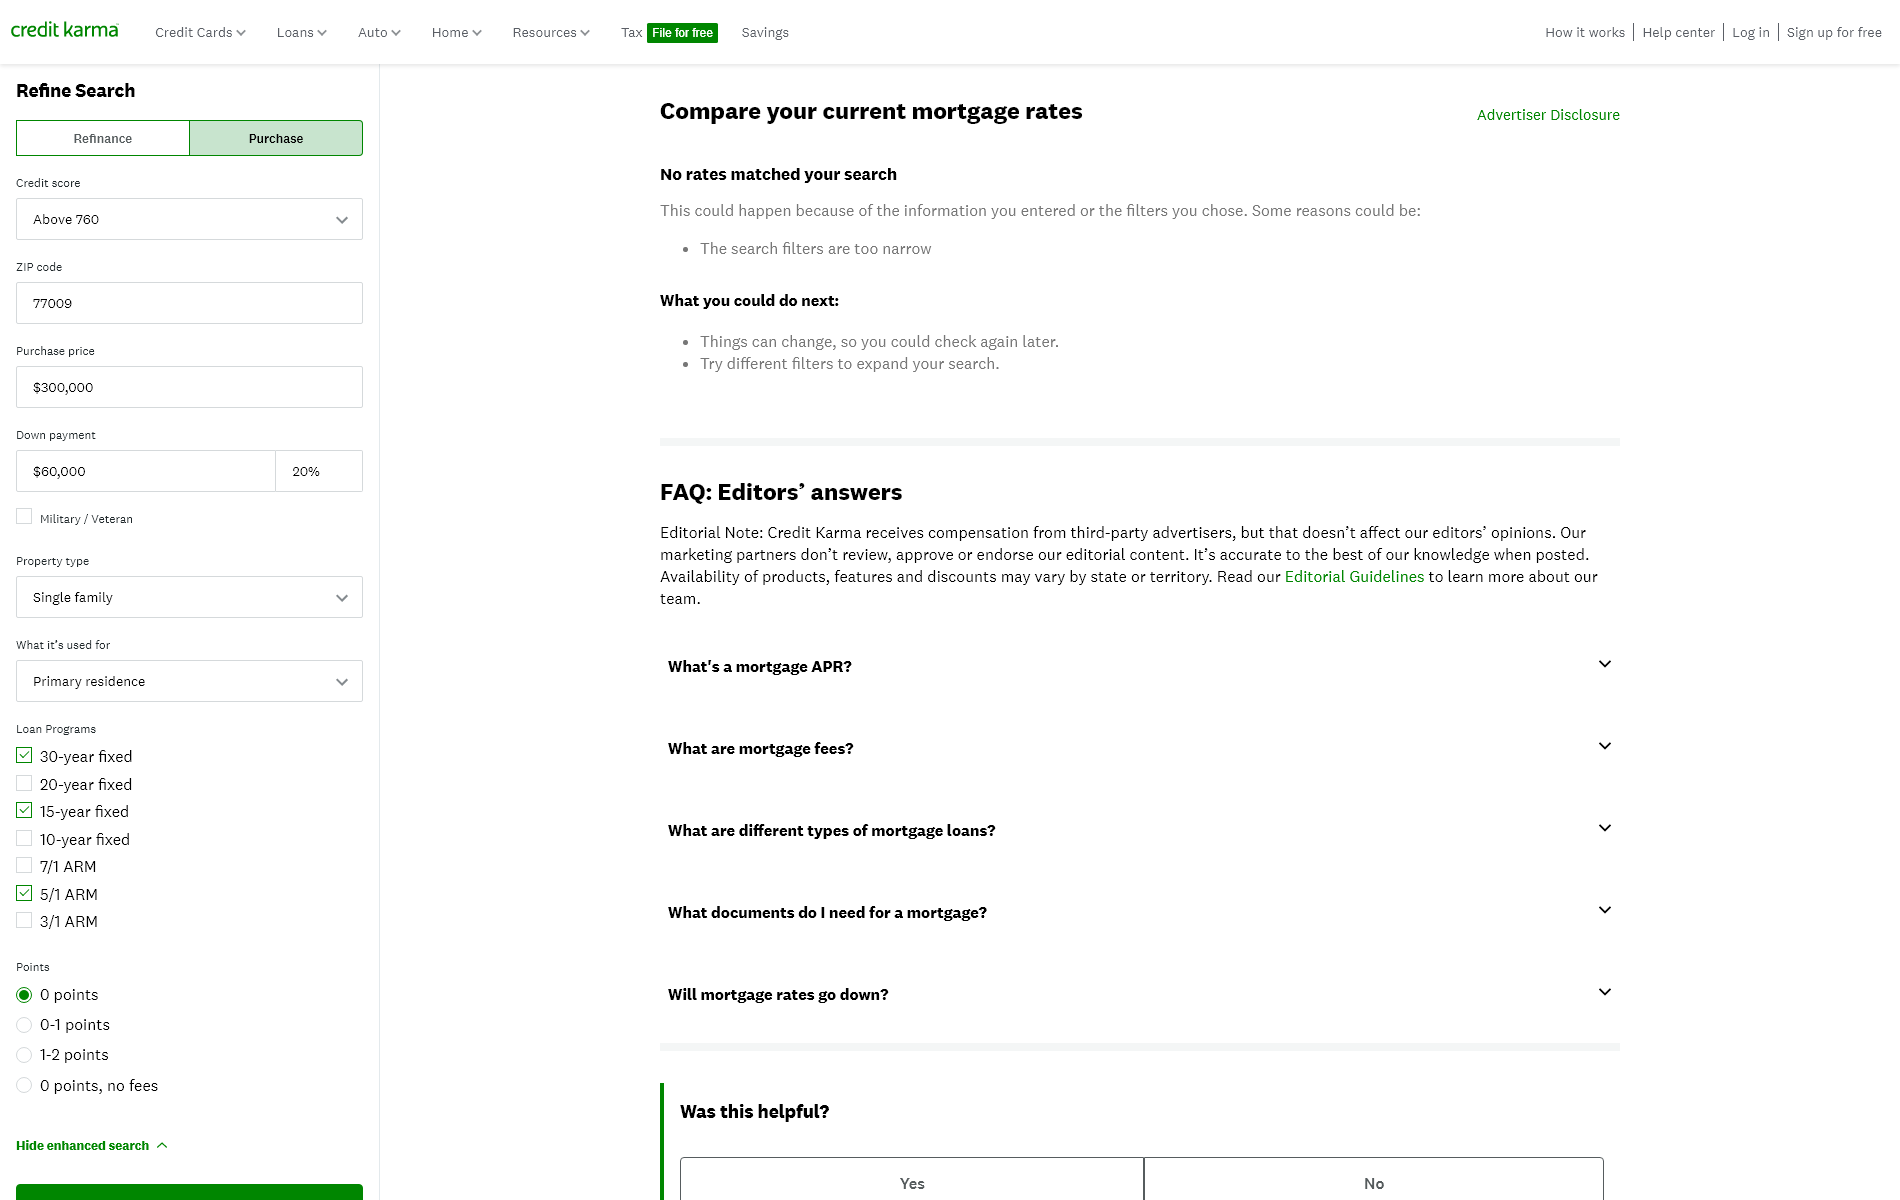
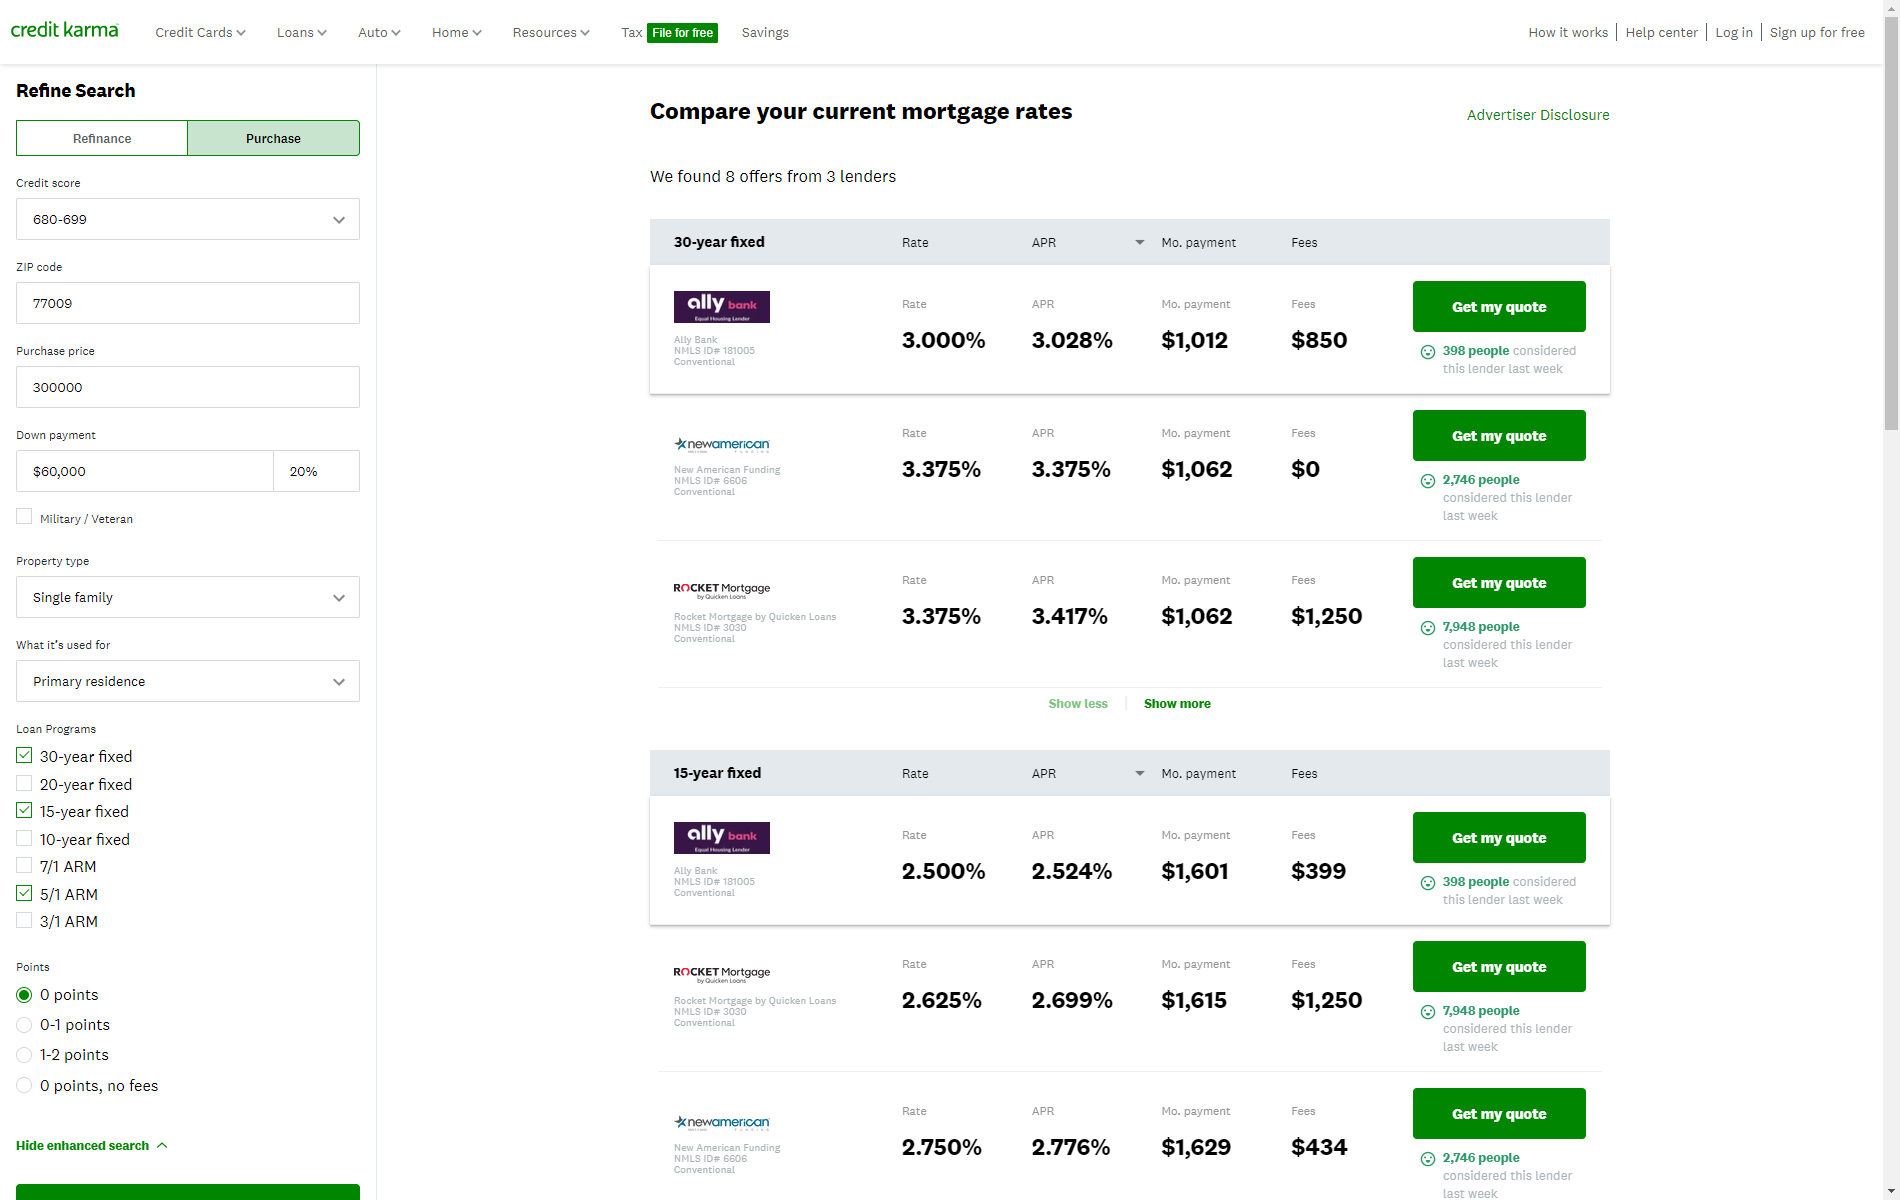
bugfix: selection input now works, added waits, correctly gets results for rate,apr,mo.payment,fees

diff --git a/credKarma.js b/credKarma.js
@@ -5,7 +5,7 @@ const PROPERTY_VALUE_MAX = 200000;
 const PROPERTY_VALUE_INC = 100000;
 let credit_scores = ["760","740","720","700","680","660","640",]
 let purchase_prices = []
-for(let i = 1; i<11; i++){
+for(let i = 3; i<11; i++){
   purchase_prices.push(i*100000)
 }
 let property_types = ["Single family","Multi-family", "Condo", "Townhome","Co-op","Manufactured home"] // index corresponds to value in dropdown on creditkarma
@@ -20,6 +20,7 @@ for(let cs of credit_scores){ // This loops will create all the permutations we 
     }
   }
 }
+// console.log(inputs)
 
 const state_values = [
   ["AK", "Alaska"],
@@ -77,27 +78,31 @@ const state_values = [
 let dummy_rows = [];
 
 let popupHandler = async (page) => {
+  try{
     await page.waitForSelector(
-        "#__render-farm > div > div > div > div.ck-modal-root.flex.justify-center.overflow-y-auto.items-center.ck-modal-enter-done > div.ck-modal-body.z-1.bg-white.w-100.pa2.pa4-ns.overflow-y-auto.relative.absolute--fill > div > div:nth-child(2) > button"
-      )
-        let got_it_button2 = await page.$(
-        "#__render-farm > div > div > div > div.ck-modal-root.flex.justify-center.overflow-y-auto.items-center.ck-modal-enter-done > div.ck-modal-body.z-1.bg-white.w-100.pa2.pa4-ns.overflow-y-auto.relative.absolute--fill > div > div:nth-child(2) > button"
-      )
+      "#__render-farm > div > div > div > div.ck-modal-root.flex.justify-center.overflow-y-auto.items-center.ck-modal-enter-done > div.ck-modal-body.z-1.bg-white.w-100.pa2.pa4-ns.overflow-y-auto.relative.absolute--fill > div > div:nth-child(2) > button"
+    )
+      let got_it_button2 = await page.$(
+      "#__render-farm > div > div > div > div.ck-modal-root.flex.justify-center.overflow-y-auto.items-center.ck-modal-enter-done > div.ck-modal-body.z-1.bg-white.w-100.pa2.pa4-ns.overflow-y-auto.relative.absolute--fill > div > div:nth-child(2) > button"
+    )
 
-      let got_it_button2_connected = await page.evaluate((el) => el.isConnected, got_it_button2);
-      
-      
-      if(got_it_button2_connected){
-        await page.click("#__render-farm > div > div > div > div.ck-modal-root.flex.justify-center.overflow-y-auto.items-center.ck-modal-enter-done > div.ck-modal-body.z-1.bg-white.w-100.pa2.pa4-ns.overflow-y-auto.relative.absolute--fill > div > div:nth-child(2) > button")
-        console.log("Should appear if there is a button for git it")
-      }
+    let got_it_button2_connected = await page.evaluate((el) => el.isConnected, got_it_button2);
+    
+    
+    if(got_it_button2_connected){
+      await page.click("#__render-farm > div > div > div > div.ck-modal-root.flex.justify-center.overflow-y-auto.items-center.ck-modal-enter-done > div.ck-modal-body.z-1.bg-white.w-100.pa2.pa4-ns.overflow-y-auto.relative.absolute--fill > div > div:nth-child(2) > button")
+      console.log("Should appear if there is a button for git it")
+    }
+
+  } catch(error){console.log(error)}
+   
 }
 
 startScript = async () => {
 
   
   try {
-    const browser = await puppeteer.launch();
+    const browser = await puppeteer.launch({headless: false});
     let url = `https://www.creditkarma.com/home-loans/mortgage-rates`;
     const page = await browser.newPage();
     await page.goto(url);
@@ -116,13 +121,15 @@ startScript = async () => {
       await page.addStyleTag({ content: "*{scroll-behavior: auto !important;}" })
 
       // click enchance search immediately so we can add more fields
-      await page.waitFor(3000);
+      await page.waitFor(1000);
       await page.screenshot({
         path: "./screenshots/beforeEnhance.png",
       })
       await page.focus("#mortgage-show-cash-out-btn")
       await page.waitForSelector("#mortgage-show-cash-out-btn")
+      await page.waitFor(1000);
       await page.click("#mortgage-show-cash-out-btn");
+      await page.waitFor(1000);
 
       // This block of code changes the credit score selection
 
@@ -130,23 +137,23 @@ startScript = async () => {
       await page.waitForSelector(
         "#__render-farm > div > div > div > aside > div > form > section > div.pt3-l.pt4.ph3.pb2.flex-shrink-0 > div:nth-child(3) > label > div.galaxy-forms-dropdown-root > select"
       );
+      await page.waitFor(1000);
 
       console.log("what is new credit SCore", credit_score)
-      await page.$eval(
-        "#__render-farm > div > div > div > aside > div > form > section > div.pt3-l.pt4.ph3.pb2.flex-shrink-0 > div:nth-child(3) > label > div.galaxy-forms-dropdown-root > select",
-        (el,my_value) => el.value = my_value,credit_score
-      );
+
+      await page.select('#__render-farm > div > div > div > aside > div > form > section > div.pt3-l.pt4.ph3.pb2.flex-shrink-0 > div:nth-child(3) > label > div.galaxy-forms-dropdown-root > select', 'my-value', "680")
+     
+    
       // end of block that changes credit score selection
-      await page.waitFor(3000);
-      await page.screenshot({
-        path: "./screenshots/afterPop.png",
-      })
+      await page.waitFor(1000);
+      
       // This block of code gets and sets the purchase price to an updated value
       console.log("what is new purchase price", purchase_price)
       await page.$eval(
         "input[data-testid=search-form-purchasePrice-input]",
         (el,new_val) => (el.value = new_val),purchase_price
       );
+      
 
     //   let updated_prop_val_element = await page.$("input[class=propertyvalue]");
 
@@ -172,18 +179,18 @@ startScript = async () => {
       let is_30_checked = true
 
       // can set these other parameters or loop through certain options later
-      await page.$eval(
-        "input[data-testid=search-form-loanPrograms-input-30-year-fixed]",
-        (el,is_checked) => (el.checked = is_checked),is_30_checked
-      );
+      // await page.$eval(
+      //   "input[data-testid=search-form-loanPrograms-input-30-year-fixed]",
+      //   (el,is_checked) => (el.checked = is_checked),is_30_checked
+      // );
     //   await page.$eval(
     //     "input[data-testid=search-form-loanPrograms-input-20-year-fixed]",
     //     (el,is_checked) => (el.checked = is_checked),!is_30_checked
     //   );
-      await page.$eval(
-        "input[data-testid=search-form-loanPrograms-input-15-year-fixed]",
-        (el,is_checked) => (el.checked = is_checked),is_30_checked
-      );
+      // await page.$eval(
+      //   "input[data-testid=search-form-loanPrograms-input-15-year-fixed]",
+      //   (el,is_checked) => (el.checked = is_checked),is_30_checked
+      // );
     //   await page.$eval(
     //     "input[data-testid=search-form-loanPrograms-input-10-year-fixed]",
     //     (el,is_checked) => (el.checked = is_checked),!is_30_checked
@@ -204,21 +211,37 @@ startScript = async () => {
       //end of setting loan programs
 
       // click get my rates
-      await page.click("#mortgage-check-rates-btn")
 
-      const getThemAll = await page.$$("ckm_detail-module_detailValue--21DrW b");
-      console.log("gta", getThemAll);
+      await page.screenshot({
+        path: "./screenshots/afterPop.png",
+      })
+
+      await page.waitForSelector("#mortgage-check-rates-btn")
+      
+
+      await page.waitFor(5000)
+      await page.click("#mortgage-check-rates-btn")
+      await page.waitFor(5000)
+      await page.screenshot({
+        path: "./screenshots/newRates.png",
+      })
+      await page.waitFor(10000)
+
+      const getThemAll = await page.$$('span[class^="ckm_detail-module_detail"]');
+      console.log("gta", getThemAll)
 
       getThemAll.forEach(async (rate) => {
-        rate = await page.evaluate((el) => el.textContent, rate);
-        console.log("rate is", rate);
-      });
+        rate = await page.evaluate((el) => el.textContent, rate)
+        console.log("rate is", rate)
+      })
 
       console.log("DONE WITH BLOCK")
-
+      popupHandler()
       await page.screenshot({
         path: "./screenshots/printRates.png",
       })
+
+      await browser.close();
 
 
       
@@ -227,6 +250,6 @@ startScript = async () => {
   } catch (error) {
     console.log(error);
   }
-};
+}
 
 startScript();
